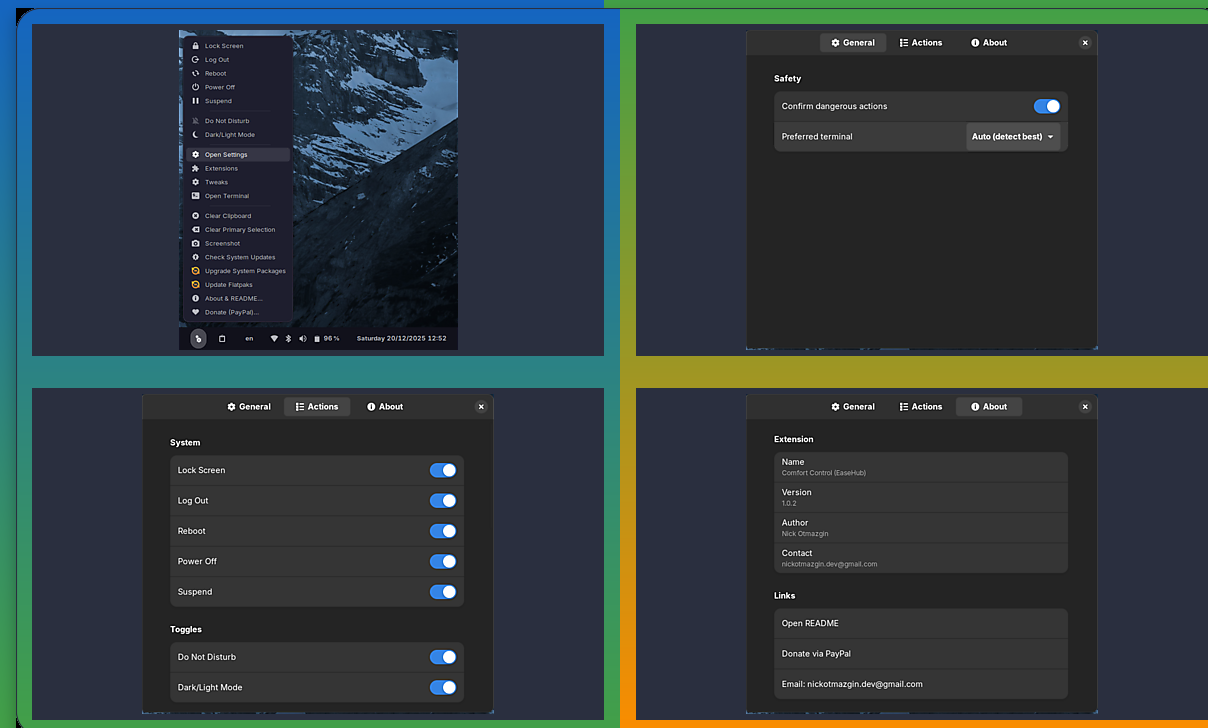
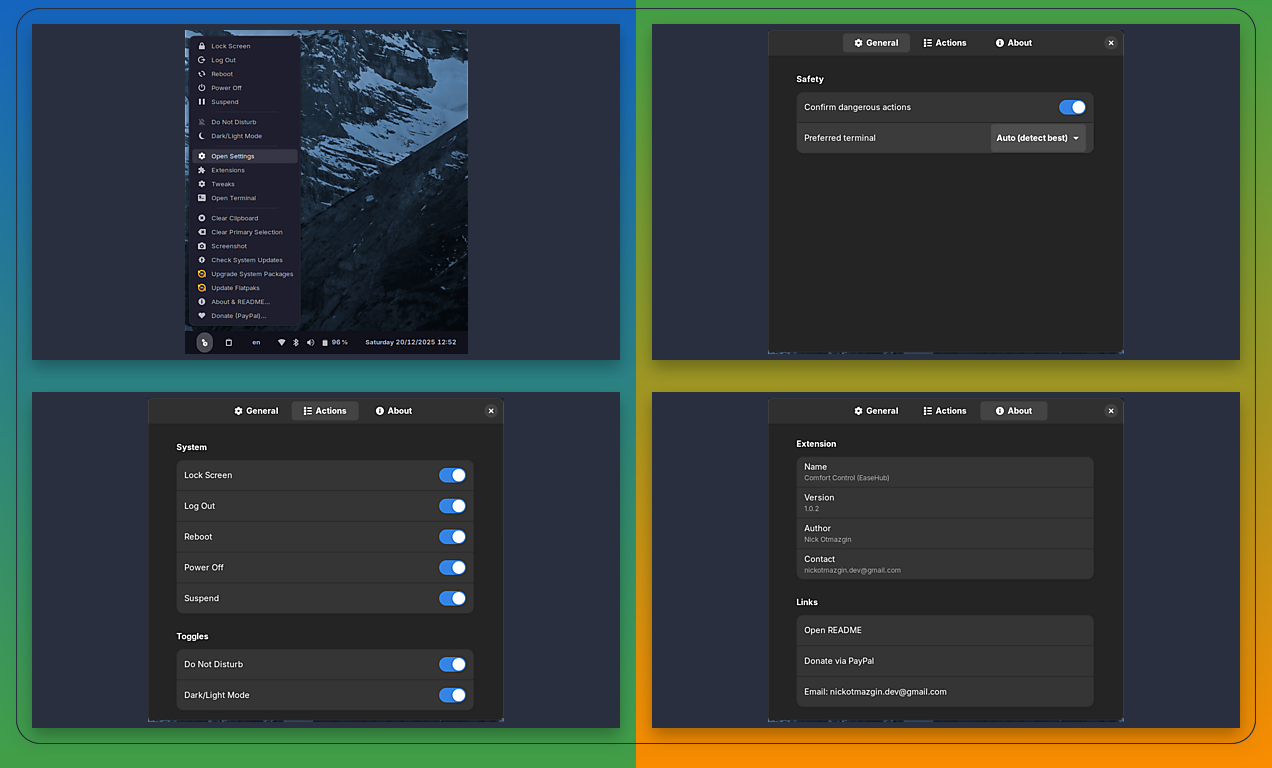
docs: replace old screenshots with tri‑color collage; update README hero; add social preview

Changed region(s): [[0.0, 0.0, 1.0, 1.0], [0.1225, 0.7253, 0.1838, 0.9066], [0.1225, 0.5742, 0.1838, 0.6951]]

diff --git a/README.md b/README.md
@@ -1,9 +1,8 @@
 # Comfort Control (EaseHub)
-
 [![Release](https://img.shields.io/github/v/release/nickotmazgin/comfort-control-easehub)](https://github.com/nickotmazgin/comfort-control-easehub/releases)
 [![Downloads](https://img.shields.io/github/downloads/nickotmazgin/comfort-control-easehub/total?label=downloads)](https://github.com/nickotmazgin/comfort-control-easehub/releases)
 
-![EaseHub Screenshot](screenshots/easehub_showcase_final.png)
+![EaseHub Collage](screenshots/collages/easehub_collage_tricolor.png)
 
 A **GNOME Shell extension** that brings **comfort and control to your desktop** — providing quick access to power actions, seamless screenshot helpers, and intelligent system update prompts.
 
